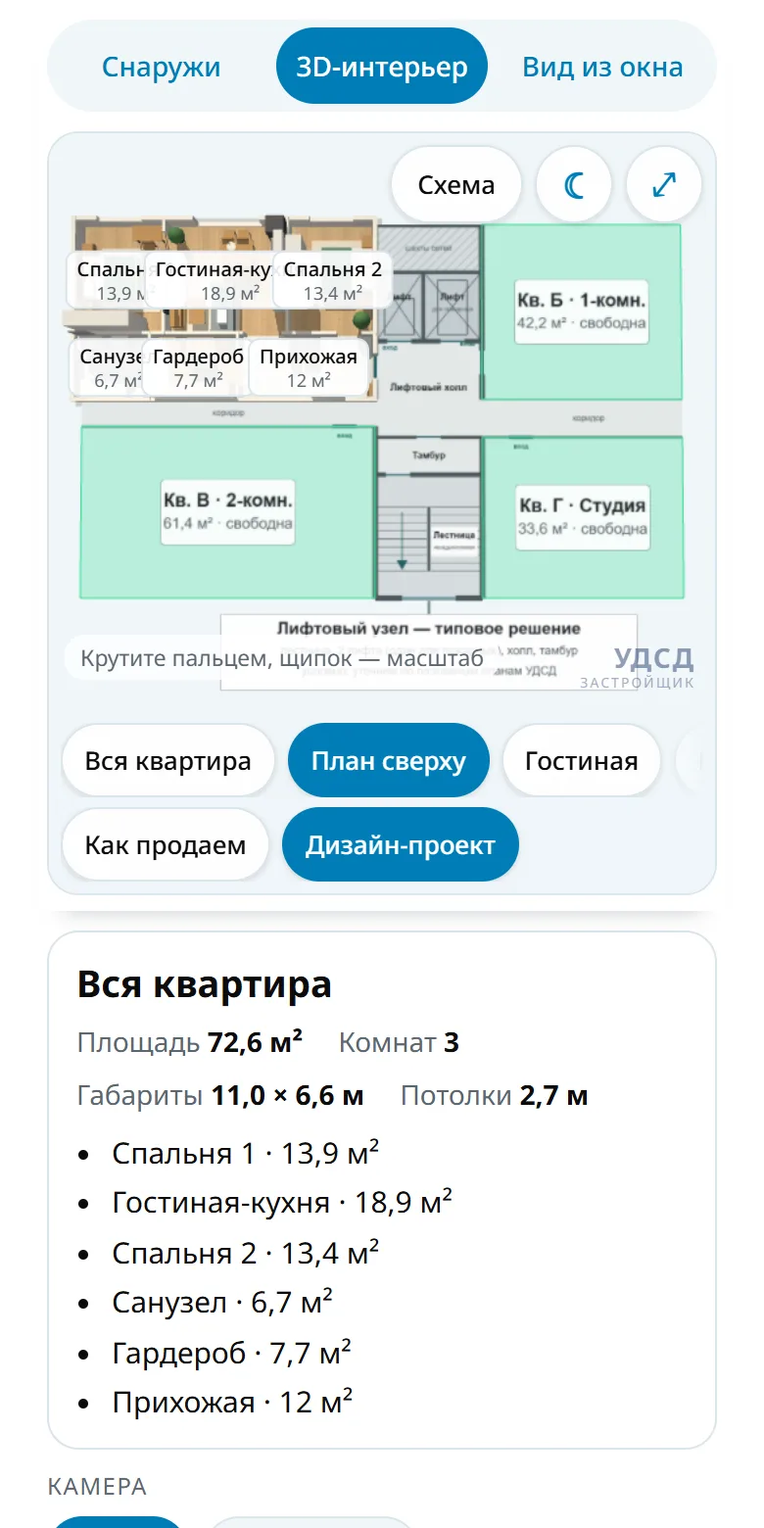
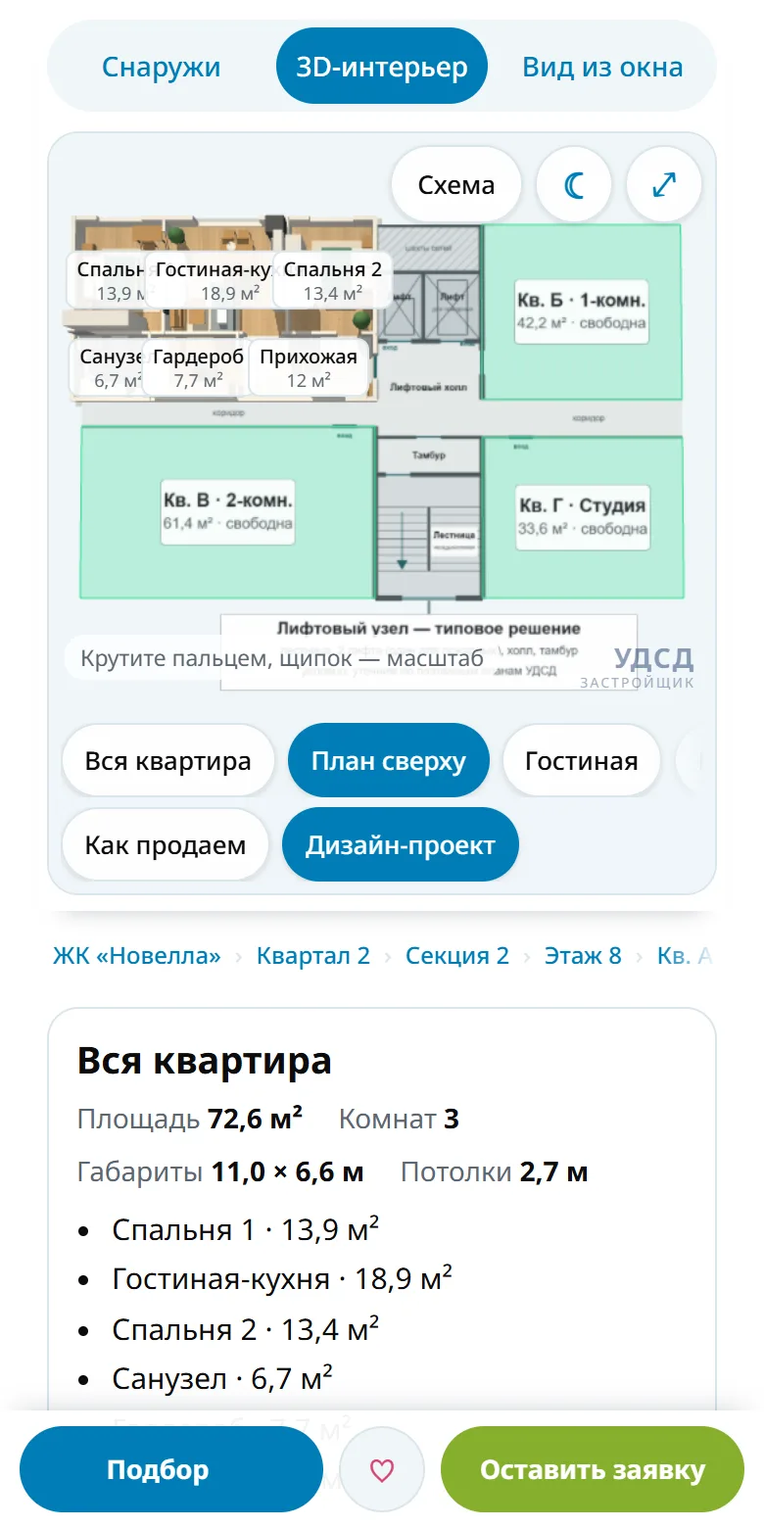
Навигация по лучшим практикам: подбор с подсветкой, путь, избранное, заявка, ссылки; разные ПК и телефон
Подбор по комнатам, цене, этажу и свободным: подходящие квартиры подсвечиваются на фасадах, корпуса — «N подх.», список с переходом к квартире.
Путь «ЖК › квартал › секция › этаж › квартира», сердечко и избранное, окно заявки (демо, без отправки), ссылка на каждую квартиру.
Компьютер: 3D на всю высоту слева, панель справа, подсказки при наведении. Телефон: подбор — нижний лист, снизу панель «Подбор · ♡ · Оставить заявку».

diff --git a/demo/index.html b/demo/index.html
@@ -214,6 +214,77 @@ svg text{font-family:var(--f-body)}
 .more > .row{margin-top:0}
 /* taps: no double-tap zoom or delay on controls, no grey flash in Safari */
 button,select,summary,a,.chip,.rl{touch-action:manipulation;-webkit-tap-highlight-color:transparent}
+.stage.walk .logo{display:none}   /* walking: the mini-map takes that corner */
+/* side panel: where you are, card, finder */
+.side{display:flex;flex-direction:column;gap:14px;min-width:0}
+.crumbs{gap:4px;align-items:center;font-size:13px;color:var(--mut);padding:0}
+.crumbs button{flex:none;border:0;background:none;color:var(--acc);font:500 13px var(--f-body);padding:6px 4px;cursor:pointer;border-radius:8px}
+.crumbs button[aria-current]{color:var(--fg);font-weight:700;cursor:default}
+.crumbs i{font-style:normal;color:var(--line);flex:none}
+.cardhead{display:flex;align-items:flex-start;justify-content:space-between;gap:10px}
+.favbtn{flex:none;width:40px;height:40px;border-radius:50%;border:1px solid var(--line);background:var(--surf);color:#d64570;font:400 20px/1 var(--f-body);cursor:pointer}
+.favbtn[aria-pressed="true"]{background:#d64570;color:#fff;border-color:#d64570}
+.cta{display:flex;gap:8px;flex-wrap:wrap;margin-top:4px}
+.cta .chip{background:var(--green);border-color:var(--green);color:#fff;font-weight:700}
+.pick{display:flex;flex-direction:column;gap:12px;background:var(--surf);border:1px solid var(--line);border-radius:16px;padding:14px 16px}
+.pick-head{display:flex;align-items:center;gap:10px}
+.pick-head b{font:700 17px var(--f-display)}
+.pick-count{color:var(--acc);font-weight:500;font-size:14px}
+.pick-close{display:none;margin-left:auto}
+.pick input[type=range]{width:100%;accent-color:var(--acc)}
+.fchk{display:flex;gap:8px;align-items:center;font-size:14px}
+.fchk input{width:18px;height:18px;accent-color:var(--acc)}
+.pick-list{display:flex;flex-direction:column;border-top:1px solid var(--line);max-height:300px;overflow:auto}
+.pick-list button{display:grid;grid-template-columns:1fr auto;gap:2px 10px;text-align:left;border:0;border-bottom:1px solid var(--line);background:none;color:var(--fg);font:500 14px var(--f-body);padding:9px 2px;cursor:pointer}
+.pick-list button small{color:var(--mut);font-weight:400;font-size:12.5px}
+.pick-list button b{grid-row:span 2;align-self:center;font-variant-numeric:tabular-nums}
+.pick-list button:hover,.pick-list button[aria-current]{background:var(--chip)}
+.pick-list p{margin:8px 0 0;font-size:13px;color:var(--mut)}
+.pick-foot{display:flex;gap:8px;flex-wrap:wrap}
+.pick-show{background:var(--acc);border-color:var(--acc);color:var(--accfg)}
+.mbar,.scrim{display:none}
+/* hover hint on a computer: what is under the cursor */
+.tip{position:fixed;left:0;top:0;z-index:30;pointer-events:none;background:#0c0c0c;color:#fff;font:500 12.5px/1.35 var(--f-body);padding:6px 9px;border-radius:8px;max-width:260px;box-shadow:0 4px 14px rgba(0,0,0,.25)}
+.tip b{font-weight:700}
+.dlg{position:fixed;inset:0;z-index:60;display:flex;align-items:center;justify-content:center;background:rgba(10,20,25,.45);padding:16px}
+.dlg[hidden]{display:none}
+.dlg-in{background:var(--surf);border-radius:16px;padding:18px;max-width:420px;display:flex;flex-direction:column;gap:10px}
+.dlg-in h2{margin:0;font:700 20px var(--f-display)}
+.dlg-in p{margin:0}
+.dlg-btns{display:flex;gap:8px;flex-wrap:wrap}
+/* computer: the 3D takes the whole height on the left, the side panel scrolls on the right */
+@media (min-width:1024px){
+  body{padding-block:12px 24px}
+  .wrap{max-width:1560px;display:grid;grid-template-columns:minmax(0,1fr) 390px;column-gap:20px;row-gap:12px;align-items:start}
+  .demo-bar,header,.side{grid-column:2}
+  .demo-bar{margin:0}
+  #pinMark{display:none}
+  .pin{grid-column:1;grid-row:1 / span 40;height:calc(100vh - 24px);margin:0;padding:0;box-shadow:none;top:12px}
+  .pin .stage{flex:1;height:auto;min-height:0}
+  .side .card{grid-template-columns:minmax(0,1fr)}
+  h1{font-size:28px}
+}
+/* phones: thumb bar at the bottom, the finder is a sheet over the page */
+@media (max-width:640px){
+  body{padding-bottom:calc(70px + env(safe-area-inset-bottom,0px))}
+  .mbar{display:flex;gap:8px;position:fixed;left:0;right:0;bottom:0;z-index:35;padding:8px max(10px,env(safe-area-inset-right,0px)) max(8px,env(safe-area-inset-bottom,0px)) max(10px,env(safe-area-inset-left,0px));background:color-mix(in srgb,#fff 95%,transparent);box-shadow:0 -6px 16px -10px rgba(15,40,55,.35)}
+  .mbar .chip{min-height:44px;justify-content:center}
+  #mPick{flex:1;background:var(--acc);border-color:var(--acc);color:#fff;font-weight:700}
+  #mPick span{opacity:.85;font-weight:500;margin-left:6px}
+  .mfav{width:44px;padding:0;font-size:20px;color:#d64570}
+  .mfav[aria-pressed="true"]{background:#d64570;border-color:#d64570;color:#fff}
+  .mlead{flex:1;background:var(--green);border-color:var(--green);color:#fff;font-weight:700}
+  body.full .mbar{display:none}
+  .pick{display:none}
+  body.picking .pick{display:flex;position:fixed;left:0;right:0;bottom:0;z-index:50;max-height:78svh;overflow:auto;border-radius:18px 18px 0 0;padding:14px 16px max(16px,env(safe-area-inset-bottom,0px));box-shadow:0 -10px 30px rgba(0,0,0,.25)}
+  body.picking .scrim{display:block;position:fixed;inset:0;z-index:45;background:rgba(10,20,25,.35)}
+  body.picking .mbar{display:none}
+  .pick-close{display:inline-flex}
+  .pick-list{max-height:none}
+  .crumbs{font-size:12px}
+  .crumbs button{font-size:12px;padding:4px 3px}
+  .cta,.favbtn{display:none}   /* the thumb bar has the heart and the request button */
+}
 /* rows of chips wider than the screen fade out at the side they continue to */
 .chips.more-r{-webkit-mask-image:linear-gradient(to right,#000 calc(100% - 28px),transparent);mask-image:linear-gradient(to right,#000 calc(100% - 28px),transparent)}
 .chips.more-l{-webkit-mask-image:linear-gradient(to left,#000 calc(100% - 28px),transparent);mask-image:linear-gradient(to left,#000 calc(100% - 28px),transparent)}
@@ -268,8 +339,22 @@ button,select,summary,a,.chip,.rl{touch-action:manipulation;-webkit-tap-highligh
   <div class="fullnote">Демо-концепт 3dryad.ru · не официальный сайт застройщика</div>
   </div>
 
-  <!-- what matters most comes right under the 3D: the apartment card (status, price, floor), then the controls -->
+  <!-- side panel (a column to the right of the 3D on a computer, the page under the 3D on a phone):
+       where you are, the apartment card, the apartment finder, then the controls of the mode -->
+  <aside class="side" id="side">
+  <nav class="crumbs chips" id="crumbs" aria-label="Где вы"></nav>
   <div class="card" id="card" aria-live="polite"></div>
+
+  <!-- apartment finder: on a computer always open in the side panel, on a phone a sheet that slides up from the bottom -->
+  <section class="pick" id="pick" aria-label="Подбор квартиры">
+    <div class="pick-head"><b>Подбор квартиры</b><span class="pick-count" id="pickCount"></span><button type="button" class="icobtn pick-close" id="pickClose" aria-label="Закрыть подбор">✕</button></div>
+    <div class="row"><div class="lab">Комнат</div><div class="chips" id="fRooms"></div></div>
+    <div class="row"><div class="lab">Цена до <b id="fPriceV"></b></div><input type="range" id="fPrice" aria-label="Цена до, млн ₽"></div>
+    <div class="row"><div class="lab">Этаж</div><div class="chips" id="fFloor"></div></div>
+    <label class="fchk"><input type="checkbox" id="fFree" checked> Только свободные</label>
+    <div class="pick-list" id="pickList"></div>
+    <div class="pick-foot"><button type="button" class="chip" id="pickReset">Сбросить</button><button type="button" class="chip pick-show" id="pickShow">Показать на 3D</button></div>
+  </section>
 
   <div class="panel" id="pInt">
     <div class="row"><div class="lab">Камера</div><div class="chips" id="rCam"></div></div>
@@ -290,9 +375,28 @@ button,select,summary,a,.chip,.rl{touch-action:manipulation;-webkit-tap-highligh
     </details>
   </div>
 
+  <div class="row" id="rowFav" hidden><div class="lab">Избранное</div><div class="chips" id="rFav"></div></div>
   <div class="row" id="rowRecent" hidden><div class="lab">Недавно смотрели</div><div class="chips" id="rRecent"></div></div>
 
   <p class="note" id="note"></p>
+  </aside>
+</div>
+
+<!-- phones: actions within reach of the thumb -->
+<nav class="mbar" id="mbar" aria-label="Действия">
+  <button type="button" class="chip" id="mPick">Подбор<span id="mPickN"></span></button>
+  <button type="button" class="chip mfav" id="mFav" aria-pressed="false" aria-label="В избранное">♡</button>
+  <button type="button" class="chip mlead" id="mLead">Оставить заявку</button>
+</nav>
+<div class="tip" id="tip" hidden></div>
+<div class="scrim" id="scrim" hidden></div>
+<div class="dlg" id="lead" hidden role="dialog" aria-label="Заявка на квартиру">
+  <div class="dlg-in">
+    <h2>Заявка на квартиру</h2>
+    <p id="leadWhat"></p>
+    <p class="note">Это демо. В рабочей версии заявка с этой квартирой, ценой и контактом покупателя уходит в CRM отдела продаж УДСД, а менеджер перезванивает. Здесь данные никуда не отправляются.</p>
+    <div class="dlg-btns"><button type="button" class="chip pick-show" id="leadCopy">Скопировать ссылку на квартиру</button><button type="button" class="chip" id="leadClose">Закрыть</button></div>
+  </div>
 </div>
 
 <div class="sheet" id="sheet" hidden role="dialog" aria-label="Схема квартиры">
@@ -331,6 +435,20 @@ button,select,summary,a,.chip,.rl{touch-action:manipulation;-webkit-tap-highligh
 
   /* ---------- state ---------- */
   const S = { mode: 'int', finish: 'design', cam: 'top', see: 'glass', inner: false, house: 'glass', extView: 'yard', layer: 'free', sec: 0, apt: 'a', view: 'overview', style: 'scandi', time: 'day', floor: 8, win: 'living' };
+  const Q = new URLSearchParams(location.search);   // read before anything rewrites the address (see updateUrl)
+  let urlReady = false;
+  // apartment finder: rooms (0 = studio), top price in roubles, floor band, free only
+  const FLT = { rooms: new Set(), price: Infinity, floor: 'any', free: true };
+  const ROOMS_N = { a: 3, b: 1, c: 2, d: 0 }, FLOOR_BANDS = { any: [2, 99], low: [2, 4], mid: [5, 8], high: [9, 99] };
+  function fltOn() { return FLT.rooms.size > 0 || FLT.price < Infinity || FLT.floor !== 'any'; }
+  function fltKey() { return [...FLT.rooms].join('') + '|' + FLT.price + '|' + FLT.floor + '|' + FLT.free; }
+  function fltMatch(si, f, l) {
+    if (FLT.free && status(si, f, l) !== 'free') return false;
+    if (FLT.rooms.size && !FLT.rooms.has(ROOMS_N[l])) return false;
+    const b = FLOOR_BANDS[FLT.floor]; if (f < b[0] || f > b[1]) return false;
+    if (FLT.price < Infinity) { const p = price(si, f, l); if (p == null || p > FLT.price) return false; }
+    return true;
+  }
 
   /* ---------- design styles ---------- */
   const STYLES = {
@@ -976,13 +1094,16 @@ button,select,summary,a,.chip,.rl{touch-action:manipulation;-webkit-tap-highligh
     const ov = new THREE.Mesh(new THREE.BoxGeometry(sx + 1, sec.floors * FLOOR_H + 1, sz + 1), new THREE.MeshBasicMaterial({ color: free ? '#3ddc97' : '#6b7780', transparent: true, opacity: free ? 0.3 : 0.22, depthWrite: false }));   // light enough that the facades show through
     ov.position.set(sec.cx, sec.floors * FLOOR_H / 2, sec.cz); ov.visible = false; ov.renderOrder = 1; outside.add(ov); sec.ov = ov;
   });
+  const cellDim = new THREE.MeshBasicMaterial({ color: '#c9d2d6', transparent: true, opacity: 0.16, depthWrite: false, side: THREE.DoubleSide });
   let cellsKey = '', markKey = '';
   function rebuildCells() {
-    const sec = SECTIONS[S.sec], key = S.sec + ':' + S.floor + S.apt; if (key === cellsKey) return; cellsKey = key;
+    const sec = SECTIONS[S.sec], key = S.sec + ':' + S.floor + S.apt + fltKey(); if (key === cellsKey) return; cellsKey = key;
     while (cellG.children.length) { const c = cellG.children.pop(); c.geometry.dispose(); }
     for (let f = 2; f <= sec.floors; f++) LETTERS.forEach((l) => {
       if (f === S.floor && l === S.apt) return;
-      const ci = cellInfo(sec, l, f), m = new THREE.Mesh(new THREE.PlaneGeometry(ci.w - 0.5, 2.7), cellMats[status(sec.i, f, l)]);
+      // with the finder on, apartments that match keep their status colour and the rest fade to a light grey
+      const ci = cellInfo(sec, l, f), mat = fltOn() && !fltMatch(sec.i, f, l) ? cellDim : cellMats[status(sec.i, f, l)];
+      const m = new THREE.Mesh(new THREE.PlaneGeometry(ci.w - 0.5, 2.7), mat);
       m.position.set(ci.c.x + ci.n.x * 0.1, ci.y + 1.5, ci.c.z + ci.n.z * 0.1);
       m.rotation.y = ci.n.z === 1 ? 0 : (ci.n.z === -1 ? Math.PI : (ci.n.x === 1 ? Math.PI / 2 : -Math.PI / 2));
       m.userData = { f: f, l: l }; m.renderOrder = 3; cellG.add(m);
@@ -1008,7 +1129,7 @@ button,select,summary,a,.chip,.rl{touch-action:manipulation;-webkit-tap-highligh
       const sel = ext && sec.i === S.sec;
       if (sec.own) { sec.mesh.visible = ext && !(sel && glass); if (ownPart) ownPart.visible = !ext; }
       else sec.mesh.visible = !(sel && glass);
-      sec.ov.visible = ext && S.layer === 'free' && !sel;
+      sec.ov.visible = ext && (S.layer === 'free' || fltOn()) && !sel;
     });
     selGlass.visible = selEdges.visible = ext && S.house === 'glass';
     cellG.visible = ext;
@@ -1399,7 +1520,7 @@ button,select,summary,a,.chip,.rl{touch-action:manipulation;-webkit-tap-highligh
     GEO.forEach((g) => {
       if (city ? !/^(dist|part|novella)$/.test(g.k) : g.k === 'part' || g.k === 'novella') return;   // the city map shows only the city's names
       if (g.k === 'dist' && !wide) return;
-      if (g.k === 'sec' && (S.layer !== 'free' || g.sec.i === S.sec || !g.sec.free || S.extView === 'area')) return;
+      if (g.k === 'sec' && ((S.layer !== 'free' && !fltOn()) || g.sec.i === S.sec || !(fltOn() ? g.sec.match : g.sec.free) || S.extView === 'area')) return;
       if (S.extView === 'area' && g.k === 'street' && !/Тундра|Озеро|ул\. Мира/.test(g.t)) return;
       if (S.extView === 'area' && /Квартал [1345]|Детский|Стадион/.test(g.t)) return;
       gv.set(g.x, g.y || 0.6, g.z).project(camera); if (gv.z > 1 || Math.abs(gv.x) > 1.05 || Math.abs(gv.y) > 1.05) return;
@@ -1416,7 +1537,7 @@ button,select,summary,a,.chip,.rl{touch-action:manipulation;-webkit-tap-highligh
     const placed = [];   // in the wide views a label that would cover one already placed is skipped (nearest and city names go first)
     geoDom.forEach((d, i) => {
       const it = shown[i]; if (!it) { d.style.display = 'none'; return; }
-      const g = it.g, txt = g.k === 'sec' ? g.sec.free + ' своб.' : g.t, cls = 'gl ' + (/^(sec|street|own|dist|part|novella)$/.test(g.k) ? g.k : '');
+      const g = it.g, txt = g.k === 'sec' ? (fltOn() ? g.sec.match + ' подх.' : g.sec.free + ' своб.') : g.t, cls = 'gl ' + (/^(sec|street|own|dist|part|novella)$/.test(g.k) ? g.k : '');
       d.style.display = ''; let ch = !d._w; if (d.className !== cls) { d.className = cls; ch = true; } if (d.textContent !== txt) { d.textContent = txt; ch = true; }
       if (ch) { d._w = d.offsetWidth; d._h = d.offsetHeight; }   // size is measured only when the label changes
       const bw = d._w, bh = d._h, x = it.sx - bw / 2, y = it.sy - bh / 2;
@@ -1456,6 +1577,160 @@ button,select,summary,a,.chip,.rl{touch-action:manipulation;-webkit-tap-highligh
     const sec = SECTIONS[S.sec];
     floorBtns.forEach((b, i) => { b.hidden = (i + 2) > sec.floors; });
   }
+
+  /* ---------- finder, where-you-are trail, favourites, request, links to an apartment, hover hints ----------
+     (what the leading apartment selectors share: filters lighting up matching flats on the facades, a list of matches,
+     building → floor → apartment navigation, a heart, a clear request button, a link per apartment, hover info on a computer) */
+  let matches = [];
+  function computeMatches() {
+    matches = [];
+    SECTIONS.forEach((sec) => {
+      sec.match = 0; sec.minP = null;
+      for (let f = 2; f <= sec.floors; f++) LETTERS.forEach((l) => {
+        if (status(sec.i, f, l) === 'free') { const p = price(sec.i, f, l); if (p && (sec.minP == null || p < sec.minP)) sec.minP = p; }
+        if (fltOn() && fltMatch(sec.i, f, l)) { sec.match++; matches.push({ si: sec.i, f: f, l: l, p: price(sec.i, f, l) || Infinity }); }
+      });
+      const lit = fltOn() ? sec.match > 0 : sec.free > 0;   // the tint over each building follows the finder when it is on
+      sec.ov.material.color.set(lit ? '#3ddc97' : '#6b7780'); sec.ov.material.opacity = lit ? 0.3 : 0.14;
+    });
+    matches.sort((a, b) => a.p - b.p);
+  }
+  [['Студия', 0], ['1', 1], ['2', 2], ['3', 3]].forEach((r) => chip($('fRooms'), r[0], () => FLT.rooms.has(r[1]), () => { if (FLT.rooms.has(r[1])) FLT.rooms.delete(r[1]); else FLT.rooms.add(r[1]); onFilter(); }));
+  [['Любой', 'any'], ['2–4', 'low'], ['5–8', 'mid'], ['9–12', 'high']].forEach((r) => chip($('fFloor'), r[0], () => FLT.floor === r[1], () => { FLT.floor = r[1]; onFilter(); }));
+  const allP = []; SECTIONS.forEach((sec) => { for (let f = 2; f <= sec.floors; f++) LETTERS.forEach((l) => { const p = price(sec.i, f, l); if (p) allP.push(p); }); });
+  const pMin = Math.floor(Math.min(...allP) / 5e5) * 5e5, pMax = Math.ceil(Math.max(...allP) / 5e5) * 5e5, fPrice = $('fPrice');
+  fPrice.min = pMin; fPrice.max = pMax; fPrice.step = 500000; fPrice.value = pMax;
+  fPrice.addEventListener('input', () => { FLT.price = +fPrice.value >= pMax ? Infinity : +fPrice.value; onFilter(); });
+  $('fFree').addEventListener('change', (e) => { FLT.free = e.target.checked; onFilter(); });
+  $('pickReset').addEventListener('click', () => { FLT.rooms.clear(); FLT.price = Infinity; FLT.floor = 'any'; FLT.free = true; fPrice.value = pMax; $('fFree').checked = true; onFilter(); });
+  $('pickShow').addEventListener('click', () => { closePick(); goExt('all'); });
+  function onFilter() { computeMatches(); cellsKey = ''; refresh(true); }
+  const pickListEl = $('pickList');
+  function renderPick() {
+    $('fPriceV').textContent = FLT.price === Infinity ? 'любая' : money(FLT.price);
+    $('pickCount').textContent = fltOn() ? 'подходит ' + matches.length : 'свободно ' + SECTIONS.reduce((a, s) => a + s.free, 0);
+    $('mPickN').textContent = fltOn() ? ' · ' + matches.length : '';
+    pickListEl.textContent = '';
+    const note = (t) => { const p = document.createElement('p'); p.textContent = t; pickListEl.appendChild(p); };
+    if (!fltOn()) { note('Выберите комнаты, цену или этаж: подходящие квартиры загорятся на фасадах, а список появится здесь.'); return; }
+    if (!matches.length) { note('Ничего не нашлось — расширьте цену или этаж.'); return; }
+    matches.slice(0, 40).forEach((m) => {
+      const sec = SECTIONS[m.si], t = TYPES[m.l], b = document.createElement('button'); b.type = 'button';
+      if (S.mode === 'ext' && m.si === S.sec && m.f === S.floor && m.l === S.apt) b.setAttribute('aria-current', 'true');
+      const a = document.createElement('span'); a.textContent = 'Кв. ' + t.n + ' · ' + t.short + ', ' + fmt(area(m.si, m.f, m.l)) + ' м²';
+      const p = document.createElement('b'); p.textContent = money(price(m.si, m.f, m.l));
+      const w = document.createElement('small'); w.textContent = 'Кв-л ' + sec.q + ', секц. ' + sec.n + ' · этаж ' + m.f;
+      b.appendChild(a); b.appendChild(p); b.appendChild(w); b.addEventListener('click', () => { closePick(); goApt(m.si, m.f, m.l); });
+      pickListEl.appendChild(b);
+    });
+    if (matches.length > 40) note('И ещё ' + (matches.length - 40) + ' — уточните подбор, чтобы увидеть все.');
+  }
+  function goExt(view) {
+    S.extView = view; S.inner = false;
+    if (S.mode !== 'ext') enterExt(true); else flyExt(false);
+    refresh(true);
+  }
+  function goApt(si, f, l) {
+    S.sec = si; S.floor = f; S.apt = l; S.inner = false;
+    if (S.extView === 'all' || S.extView === 'area' || S.extView === 'city') S.extView = 'yard';
+    if (S.mode !== 'ext') { enterExt(true); refresh(true); } else afterPick();
+  }
+  const openPick = () => { document.body.classList.add('picking'); $('scrim').hidden = false; };
+  const closePick = () => { document.body.classList.remove('picking'); $('scrim').hidden = true; };
+  $('mPick').addEventListener('click', openPick); $('pickClose').addEventListener('click', closePick); $('scrim').addEventListener('click', closePick);
+
+  // where you are: ЖК › квартал › секция › этаж › квартира (› интерьер / вид из окна); each level flies the camera there
+  function renderCrumbs() {
+    const c = $('crumbs'); c.textContent = '';
+    const a = curApt(), sec = SECTIONS[a.sec];
+    const items = [['ЖК «Новелла»', () => goExt('all')], ['Квартал ' + sec.q, () => goExt('top')], ['Секция ' + sec.n, () => goExt('back')], ['Этаж ' + a.floor, () => goExt('yard')], ['Кв. ' + TYPES[a.apt].n, () => goExt('yard')]];
+    if (S.mode === 'int') items.push(['3D-интерьер']); if (S.mode === 'win') items.push(['Вид из окна']);
+    items.forEach((it, i) => {
+      if (i) { const s = document.createElement('i'); s.textContent = '›'; c.appendChild(s); }
+      const b = document.createElement('button'); b.type = 'button'; b.textContent = it[0];
+      if (i === items.length - 1) b.setAttribute('aria-current', 'page'); else b.addEventListener('click', it[1]);
+      c.appendChild(b);
+    });
+  }
+
+  // favourites (this browser only) and the request button
+  let favs = [];
+  try { favs = JSON.parse(localStorage.getItem('nv-fav') || '[]').filter((r) => SECTIONS[r.sec] && TYPES[r.apt]); } catch (e) { favs = []; }
+  function curApt() { return S.mode === 'ext' ? { sec: S.sec, floor: S.floor, apt: S.apt } : { sec: towerSec.i, floor: S.floor, apt: 'a' }; }
+  const same = (x, a) => x.sec === a.sec && x.floor === a.floor && x.apt === a.apt;
+  const isFav = (a) => favs.some((x) => same(x, a));
+  function toggleFav() {
+    const a = curApt(); favs = isFav(a) ? favs.filter((x) => !same(x, a)) : [a].concat(favs).slice(0, 12);
+    try { localStorage.setItem('nv-fav', JSON.stringify(favs)); } catch (e) { /* storage may be blocked */ }
+    refresh(true);
+  }
+  function renderFavs() {
+    const box = $('rFav'); box.textContent = ''; $('rowFav').hidden = !favs.length;
+    favs.forEach((r) => {
+      const b = document.createElement('button'); b.type = 'button'; b.className = 'chip';
+      const dot = document.createElement('span'); dot.className = 'st'; dot.style.background = ST[status(r.sec, r.floor, r.apt)].c; b.appendChild(dot);
+      b.appendChild(document.createTextNode(' Кв. ' + TYPES[r.apt].n + ' · ' + SECTIONS[r.sec].q + '-' + SECTIONS[r.sec].n + ' · эт. ' + r.floor));
+      if (S.mode === 'ext' && same(r, curApt())) b.setAttribute('aria-pressed', 'true');
+      b.addEventListener('click', () => goApt(r.sec, r.floor, r.apt)); box.appendChild(b);
+    });
+    const on = isFav(curApt()), mf = $('mFav'); mf.textContent = on ? '♥' : '♡'; mf.setAttribute('aria-pressed', on ? 'true' : 'false'); mf.setAttribute('aria-label', on ? 'Убрать из избранного' : 'В избранное');
+  }
+  function decorateCard() {   // heart next to the title, a clear request button under the facts
+    const card = $('card'), h = card.querySelector('h2'); if (!h) return;
+    const head = document.createElement('div'); head.className = 'cardhead'; h.parentNode.insertBefore(head, h); head.appendChild(h);
+    const on = isFav(curApt()), fb = document.createElement('button'); fb.type = 'button'; fb.className = 'favbtn'; fb.textContent = on ? '♥' : '♡';
+    fb.setAttribute('aria-pressed', on ? 'true' : 'false'); fb.setAttribute('aria-label', on ? 'Убрать из избранного' : 'В избранное'); fb.addEventListener('click', toggleFav); head.appendChild(fb);
+    const cta = document.createElement('div'); cta.className = 'cta'; const lb = document.createElement('button'); lb.type = 'button'; lb.className = 'chip'; lb.textContent = 'Оставить заявку'; lb.addEventListener('click', openLead);
+    cta.appendChild(lb); head.parentNode.appendChild(cta);
+  }
+  function openLead() {
+    const a = curApt(), sec = SECTIONS[a.sec], t = TYPES[a.apt], st = status(a.sec, a.floor, a.apt);
+    $('leadWhat').textContent = 'Кв. ' + t.n + ' · ' + t.short + ', ' + fmt(area(a.sec, a.floor, a.apt)) + ' м² · ' + secName(sec) + ' · этаж ' + a.floor + ' · № ' + aptNum(a.sec, a.floor, a.apt) + ' · ' + ST[st].t.toLowerCase() + (st === 'sold' ? '' : ' · ' + money(price(a.sec, a.floor, a.apt)));
+    $('leadCopy').textContent = 'Скопировать ссылку на квартиру'; $('lead').hidden = false;
+  }
+  $('mFav').addEventListener('click', toggleFav); $('mLead').addEventListener('click', openLead);
+  $('leadClose').addEventListener('click', () => { $('lead').hidden = true; });
+  $('lead').addEventListener('click', (e) => { if (e.target.id === 'lead') $('lead').hidden = true; });
+  $('leadCopy').addEventListener('click', () => {
+    const done = () => { $('leadCopy').textContent = 'Ссылка скопирована'; };
+    try { navigator.clipboard.writeText(location.href).then(done, () => { $('leadCopy').textContent = location.href; }); } catch (e) { $('leadCopy').textContent = location.href; }
+  });
+  document.addEventListener('keydown', (e) => { if (e.key === 'Escape') { closePick(); $('lead').hidden = true; } });
+  // a link per apartment: ?mode=ext&sec=2-2&floor=8&apt=a (kept current while browsing)
+  function updateUrl() {
+    if (!urlReady) return;   // not until the start-up has applied the link it was opened with
+    try {
+      const a = curApt(), sec = SECTIONS[a.sec], q = '?mode=' + S.mode + '&sec=' + sec.q + '-' + sec.n + '&floor=' + a.floor + '&apt=' + a.apt;
+      if (location.search !== q) history.replaceState(null, '', q + location.hash);
+    } catch (e) { /* sandboxed frames may refuse */ }
+  }
+  function renderExtras() { renderCrumbs(); decorateCard(); renderFavs(); renderPick(); updateUrl(); }
+
+  // computer: what is under the cursor (a building or an apartment on the facade), with the cursor turning into a hand
+  const tipEl = $('tip'), canHover = matchMedia('(hover: hover) and (pointer: fine)').matches;
+  let tipXY = null, tipPending = false;
+  function showTip() {
+    tipPending = false;
+    if (!tipXY || S.mode !== 'ext') { tipEl.hidden = true; cv.style.cursor = ''; return; }
+    const r = cv.getBoundingClientRect(); ndc.set(((tipXY[0] - r.left) / r.width) * 2 - 1, -((tipXY[1] - r.top) / r.height) * 2 + 1); ray.setFromCamera(ndc, camera);
+    const cell = ray.intersectObjects(cellG.children, false)[0], hs = ray.intersectObjects(pickList.filter((m) => m.visible), false)[0];
+    let html = null;
+    if (cell && (!hs || cell.distance < hs.distance + 1)) {
+      const f = cell.object.userData.f, l = cell.object.userData.l, t = TYPES[l], st = status(S.sec, f, l);
+      html = '<b>Кв. ' + t.n + ' · ' + t.short + '</b>, ' + fmt(area(S.sec, f, l)) + ' м² · этаж ' + f + '<br>' + ST[st].t + (st === 'sold' ? '' : ' · ' + money(price(S.sec, f, l)));
+    } else if (hs && hs.object.userData.sec != null) {
+      const sec = SECTIONS[hs.object.userData.sec];
+      html = '<b>' + secName(sec) + '</b> · ' + sec.floors + ' эт.<br>Свободно ' + sec.free + ' из ' + sec.total + (sec.minP ? ' · от ' + money(sec.minP) : '') + (fltOn() ? '<br>Подходит по подбору: ' + sec.match : '') + (sec.i !== S.sec ? '<br>Нажмите, чтобы выбрать' : '');
+    }
+    if (!html) { tipEl.hidden = true; cv.style.cursor = ''; return; }
+    tipEl.innerHTML = html; tipEl.hidden = false; cv.style.cursor = 'pointer';
+    tipEl.style.transform = 'translate(' + Math.round(Math.min(tipXY[0] + 14, innerWidth - tipEl.offsetWidth - 8)) + 'px,' + Math.round(Math.min(tipXY[1] + 18, innerHeight - tipEl.offsetHeight - 8)) + 'px)';
+  }
+  if (canHover) {
+    cv.addEventListener('pointermove', (e) => { tipXY = e.buttons ? null : [e.clientX, e.clientY]; if (!tipPending) { tipPending = true; requestAnimationFrame(showTip); } });
+    cv.addEventListener('pointerleave', () => { tipXY = null; tipEl.hidden = true; cv.style.cursor = ''; });
+  }
+  computeMatches();
 
   chip($('rTime'), 'День', () => S.time === 'day', () => { S.time = 'day'; refresh(); });
   chip($('rTime'), 'Вечер', () => S.time === 'eve', () => { S.time = 'eve'; refresh(); });
@@ -1621,7 +1896,7 @@ button,select,summary,a,.chip,.rl{touch-action:manipulation;-webkit-tap-highligh
     $('badge').hidden = S.mode === 'int'; if (S.mode === 'win') $('badge').textContent = 'Этаж ' + S.floor + ' · ' + WIN.find((w) => w.id === S.win).n; if (S.mode === 'ext') $('badge').textContent = 'Кв-л ' + SECTIONS[S.sec].q + ' · секц. ' + SECTIONS[S.sec].n + ' · эт. ' + S.floor + ' · кв. ' + TYPES[S.apt].n;
     $('h1').textContent = S.mode === 'ext' ? 'Квартира ' + TYPES[S.apt].n + ', ' + fmt(TYPES[S.apt].area) + ' м²' : (narrow() ? '3-комн. квартира, 72,6 м²' : 'Трёхкомнатная квартира, 72,6 м²');
     if (S.mode === 'ext') fillExtPanel();
-    trackRecent(); sync.forEach((f) => f()); renderCard(); renderNote(); hintText();
+    trackRecent(); sync.forEach((f) => f()); renderCard(); renderExtras(); renderNote(); hintText();
     dockEl.querySelectorAll('.chip[aria-pressed="true"]').forEach((b) => {   // keep the chosen chip of each dock row in sight (floor 8 sits past the edge on a phone)
       const r = b.parentNode; if (b.offsetLeft < r.scrollLeft || b.offsetLeft + b.offsetWidth > r.scrollLeft + r.clientWidth) r.scrollLeft = b.offsetLeft - (r.clientWidth - b.offsetWidth) / 2;
     });
@@ -1864,7 +2139,13 @@ button,select,summary,a,.chip,.rl{touch-action:manipulation;-webkit-tap-highligh
   resize(); const c0 = camFor('overview'); camera.position.set(...c0.pos); controls.target.set(...c0.tgt); limits();
   resize(); refresh();
   // the buyer's path starts outside: the demo opens on «Снаружи» at our apartment (the interior above is set up for when they go in)
-  S.sec = towerSec.i; S.apt = 'a'; S.inner = false; S.extView = 'yard'; enterExt(true); refresh(true);
+  // a link may name the apartment and the mode (?mode=ext&sec=2-2&floor=8&apt=a); otherwise start at our apartment
+  const qSec = SECTIONS.find((x) => x.q + '-' + x.n === Q.get('sec')), qF = +Q.get('floor'), qA = Q.get('apt');
+  S.sec = qSec ? qSec.i : towerSec.i; S.apt = TYPES[qA] ? qA : 'a'; S.inner = false; S.extView = 'yard';
+  if (qF >= 2 && qF <= SECTIONS[S.sec].floors) S.floor = qF;
+  urlReady = true;
+  if (Q.get('mode') === 'int' || Q.get('mode') === 'win') { S.sec = towerSec.i; S.apt = 'a'; placeOutside(); if (Q.get('mode') === 'win') enterWindow(); else enterInterior(true); refresh(true); }
+  else { enterExt(true); refresh(true); }
   if (narrow()) $('moreExt').open = false;   // phones: rare settings folded, so the card and the main rows stay close to the 3D
   $('moreExt').addEventListener('toggle', () => document.querySelectorAll('.chips').forEach(fades));
   requestAnimationFrame(frame);

diff --git a/index.html b/index.html
@@ -251,7 +251,8 @@ footer{border-top:1px solid var(--line);padding:32px 0 40px;margin-top:20px}
       <li><svg class="ico"><use href="#i-window"/></svg><b>Вид из окна</b><p>С выбранного этажа, из каждой комнаты, днём и вечером.</p></li>
     </ol>
     <p class="note" style="margin:14px 0 0">Фасады в 3D повторяют архитектуру «Новеллы» с визуализаций УДСД: красный, графитовый и светлый кирпич, светлые обрамления окон, лоджии с отделкой под дерево, «зубчатые» кровли высоких секций и остеклённая галерея первых этажей.</p>
-    <div class="extra"><span>Фасады «Новеллы»</span><span>Вечерний режим</span><span>«Недавно смотрели»</span><span>Ссылка на квартиру в мессенджер</span><span>Статусы и цены из базы продаж</span></div>
+    <p class="note" style="margin:14px 0 0">Навигация собрана по лучшим мировым практикам выбора квартир: подбор по комнатам, цене и этажу сразу подсвечивает подходящие квартиры на фасадах всех корпусов и даёт список; путь «ЖК › квартал › секция › этаж › квартира» виден всегда; у каждой квартиры своя ссылка, сердечко «в избранное» и кнопка заявки. На компьютере 3D занимает всю высоту, справа — панель с подбором, при наведении на дом или квартиру появляется подсказка с ценой. На телефоне 3D сверху, подбор выезжает снизу, а «Подбор», «♡» и «Оставить заявку» — под большим пальцем.</p>
+    <div class="extra"><span>Подбор с подсветкой на фасадах</span><span>Избранное</span><span>Заявка на квартиру</span><span>Ссылка на каждую квартиру</span><span>Фасады «Новеллы»</span><span>Вечерний режим</span><span>Статусы и цены из базы продаж</span></div>
   </section>
 
   <section>

diff --git a/CLAUDE.md b/CLAUDE.md
@@ -49,3 +49,4 @@
 - Проверка «всё помещается» на 320/360/375/390/414 px: ряды чипов шире экрана затухают у края (`fades()` → классы `more-l/more-r`); у чипов есть короткая подпись для телефона (`chip(..., { short })`); камера плана вписывает этаж по углу обзора целевого режима (`updateFov()` в `camFor`), `maxDistance` в интерьере не меньше расстояния вида.
 - Телефон, прокрутка: после прокрутки ниже `#pinMark` на 48 px у `body` класс `pinned` (`checkPin()`, обратно — у самого верха): закреплённая 3D уменьшается до ~32svh и прячет док, подсказку, логотип, мини-карту, чтобы панели и карточка были видны (жалоба с iPhone, 27.10.2026). Высоты на телефоне — в `svh` (видимая часть экрана Safari с панелями), с запасным `vh`.
 - Порядок под сценой: карточка квартиры (`#card`) сразу под закреплённым блоком, затем панели; в «Снаружи» сначала «Подробнее», корпус, легенда, ракурс, а редкие (подсветка, дом, квартира внутри) — в `<details id="moreExt">` «Ещё настройки» (на телефоне свёрнут). На телефоне надзаголовок скрыт, заголовок одной строкой; у кнопок `touch-action:manipulation` (без задержки и двойного зума в Safari).
+- Навигация по образцу лучших сервисов выбора квартир (Render Vision, Maverickframe, VisEngine, Plan7; 28.10.2026): подбор `FLT` (комнаты, цена до, этаж, только свободные) — `fltMatch()`, `computeMatches()` красит подложки корпусов, подписи «N подх.», на фасаде выбранного корпуса неподходящие ячейки бледнеют (`cellDim`), список `#pickList` → `goApt()`; цепочка `#crumbs` (ЖК › квартал › секция › этаж › квартира, каждый уровень — ракурс); избранное (localStorage `nv-fav`, сердечко в карточке и в нижней панели); «Оставить заявку» — окно-демо без отправки данных; ссылка на квартиру `?mode=&sec=q-n&floor=&apt=` (`Q` читается до первого `refresh`, `updateUrl` после `urlReady`). Компьютер (≥1024px): сетка — 3D слева на всю высоту, справа `.side`; подсказка `#tip` при наведении (только мышь). Телефон: подбор — нижний лист (`body.picking`), снизу `.mbar` (Подбор · N, ♡, Оставить заявку).
